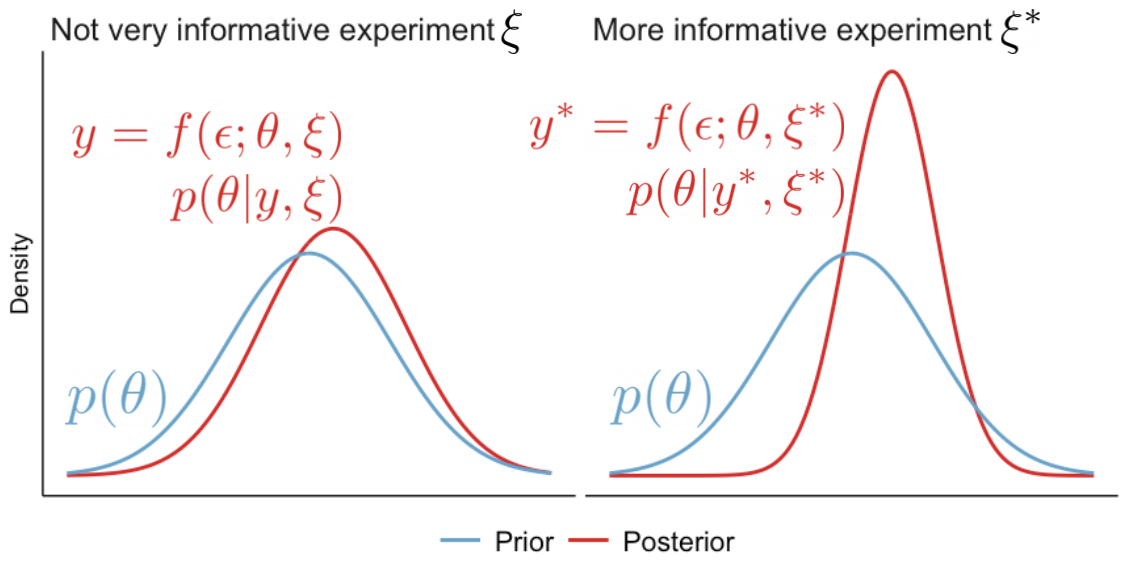
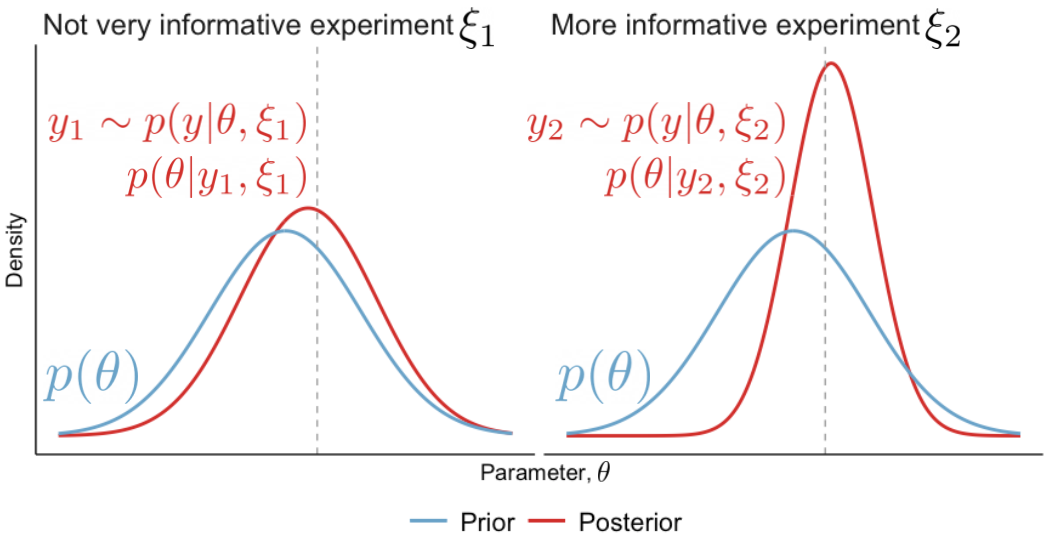
add boed-intro

diff --git a/content/post/boed-intro/index.md b/content/post/boed-intro/index.md
@@ -39,10 +39,79 @@ categories:
 - ML
 ---
 
-# Coming Soon :-)
+<!-- # Coming Soon :-) -->
+
+What questions should we ask in an online survey? Which point should we query next in an active learning loop? Where should we place sensors, e.g. to detect faults and defects most efficiently? These, and many more, seemingly distinct questions constitute the same fundamental problem---designing experiments to collect data that will help us learn about an underlying process. Bayesian Optimal Experimental Design (BOED) is a powerful yet elegant mathematical framework for tackling such problems. This introductory post describes the BOED framework and highlights some of the computational challenges of deploying it in applications. For an extensive review, see Ryan et al. (2016).
+
+In the BOED framework, the relationship between the parameters $\theta$ of the underlying process, the controllable designs $\xi$, and the outcomes $y$ are described using a likelihood function (or simulator) $p(y|\xi, \theta)$. Our initial knowledge or beliefs about the parameters $\theta$ are encapsulated in a prior $p(\theta)$.
+
+We assume $p(\theta)$ and $p(y|\theta, \xi)$ as given, so our task is to choose experiments $\xi$ that enable us to learn about $\theta$ *as efficiently as possible*. One possible measure of efficiency is the Expected Information Gain (EIG), proposed by Lindley (1956). Indeed, the guiding principle in BOED is that of information maximisation, and EIG is the central quantity of interest, so we introduce it below in detail.
+
+## Information Gain and Expected Information Gain (EIG)
+
+To build some intuition, let's begin with the illustrative example in Figure 1. Suppose we perform an experiment $\xi_1$ and obtain an outcome $y_1$. We compute the resulting posterior $p(\theta| \xi_1, y_1) \propto p(\theta) p(y|\theta, \xi)$ and notice that it is not very different from the prior; in particular, our uncertainty about $\theta$ is almost as large as before conducting the experiment (Figure 1, Left). Performing the experiment $\xi_2$, on the other hand, gives a posterior that is much more peaked, suggesting that $\xi_2$ is the more useful, more informative experiment of the two (Figure 1, Right).
+{{< figure library="true" src="information_gain.png" title="Amount of information contained in an experiment is quantified as the reduction in entropy from the prior to the posterior distribution of the parameter $\theta$. The grey dashed line indicates the true value of $\theta$." numbered="true">}}
+
+Formally, we quantify the information gain (IG) of an experiment as the reduction in Shannon entropy from the prior to the posterior
+$$
+\text{IG}(\xi, y) = H\big[ p(\theta) \big] - H \big[ p(\theta | y, \xi) \big].
+$$
+Using this metric, we can now compare and rank design-outcome pairs; for example, we can say the pair $(\xi_2, y_2)$ is more informative about $\theta$ than $(\xi_1, y_1)$. However, we can't use IG to find the optimal design as it depends on the outcome $y$ and hence can't calculate it until after the experiment has been performed. An easy way to fix that is to take the expectation with respect to all possible outcomes $y$ for an experiment $\xi$, which defines the expected information gain
+$$
+\text{EIG}(\xi) = \mathbb{E}_{p(y|\xi)}[\text{IG}(\xi, y)],
+$$
+where $p(y|\xi) = \mathbb{E}\_{p(\theta)} \big[ p(y|\theta, \xi) \big]$ is the marginal distribution of $y$. The optimal design is then $\xi^* = \arg\max\_\xi \text{EIG}(\xi)$
+
+<!-- ### Intractabilities
+ The posterior $p(\theta | y, \xi)$ is typically unknown in cl -->
+Unfortunately, optimising the EIG is an extremely challenging task. In fact, even computing $\text{EIG}(\xi)$ for a fixed $\xi$ is very computationally costly, as both the posterior $p(\theta | y, \xi)$ and the marginal $p(y|\xi)$ are in general intractable (i.e. not known in closed form). How to deal with these intractabilities will be the topic of another post. For now, we assume that there are computational methods that allow us to estimate and optimise the EIG efficiently.
+
+<!-- ## EIG and Mutual Information -->
 
 
+## Multiple experiments
+More often than not, we wish to perform multiple experiments $\xi_1, \xi_2, \dots, \xi_T$. Broadly speaking, there are two ways to approach the problem of designing multiple experiments: **static** (aka batch or open-loop) and **sequential** (aka adaptive or closed-loop).
 
-<!-- ## Information gain
+{{< figure library="true" src="static_sequential.png" title="Design strategies for multiple experiments." numbered="true">}}
 
-{{< figure library="true" src="information_gain.png" title="Amount of information contained in an experiment is quantified as the reduction in entropy from the prior to the posterior distribution of the parameter $\theta$." numbered="true">}} -->
+
+### Static experimentation
+
+Instead optimising $\text{EIG}(\xi)$ with respect to a single design $\xi$, we can set $\underline{\xi} := (\xi_1, \xi_2, \dots, \xi_T)$  and optimise $\text{EIG}(\underline{\xi})$ to give us an optimal *batch* of designs. Static design strategies are useful when experiments need to be performed in parallel, which can be suitable, for example, in applications where it takes a long time to obtain the outcomes after the experiment has been performed. As a result, the outcome of any experiment cannot affect the design of the other experiments.
+
+### Sequential experimentation
+
+In practice, we are often more interested in performing multiple experiments in a sequence $\xi_1, \xi_2, \dots, \xi_T$, and allowing the choice of each design $\xi\_{t+1}$ to be guided by the data from past experiments, which we call the *history* and denote by $h_t:= (\xi_1, y_1, \dots, \xi_t, y_t)$.
+
+#### Myopic design (one-step lookahead)
+The traditional approach to designing adaptive experiments is to fit a posterior $p(\theta| h_t)$ and use that as a prior in the EIG optimisation, which would give the next design $\xi\_{t+1}$. This is known as greedy or myopic design strategy: at each step of the experiment, we are optimising for the next best choice of $\xi$, without taking into account that there are $T-1$ future experiments to be performed. Despite being suboptimal, the sequential myopic strategy can bring huge improvements over static designs.
+
+{{< figure library="true" src="myopic.png" title="The myopic (aka greedy) strategy performs posterior inference at each step of the experiment and optimises one-step lookahead EIG using the fitted posterior as the prior." numbered="true">}}
+
+
+Unfortunately,  the computational cost required to run the myopic strategy severely limits its applicability. At each stage $t+1$ of the experiment, we need to perform compute (or rather approximate) the posterior $p(\theta|h_t)$, which is expensive and cannot be done in advance as it depends on $y\_{1:t}$. Furthermore, to obtain $\xi\_{t+1}$, we need to maximise the EIG, which is computationally even more challenging. Both of these steps need to be performed during the live experiment. Unless we are dealing with unusually simple models, it will be infeasible to run the myopic (or non-myopic $K$-step lookahead) strategy in real-time experiments.
+
+
+#### Amortized sequential BOED
+Until recently, to perform BOED in real-time applications, one had to forego adaptivity and use static strategies instead. (Or alternatively, forego being Bayesian optimal and use an adaptive heuristic).
+
+Deep Adaptive Design (DAD, Foster et al. 2021) is a method developed by our group at Oxford that has opened the door to running adaptive BOED in real-time. At the heart of the DAD approach is a *design policy network*, which is trained prior to the live experiment. The network takes a history $h_t$ as an input and outputs the design $\xi\_{t+1}$ to be used for the next experiment. Design decisions are thus made in milliseconds, using a single forward pass through the network.
+
+{{< figure library="true" src="policy_based.png" title="Policy-based BOED approaches, such as DAD, allow us to learn a function (policy) before the live experiment, thus enabling quick and adaptive experiments to be run at deployment." numbered="true">}}
+
+
+The key methodological difference, which marks a critical change from previous BOED approaches, is that DAD learns a *policy*, instead of learning designs. Put differently, previous methods optimise individual designs, while DAD optimises the parameters of a neural network, which is trained to propose optimal designs. DAD is thus the first policy-based approach to BOED.
+
+To be able to train the design network, we addressed some major technical challenges, including formulating a unified training objective that doesn't require calculating intermediate posteriors and EIGs, introducing a tractable surrogate for that objective and suggesting an appropriate architecture for the design network.
+
+I'll probably write another blog post to talk about our work on policy-based BOED at greater length. In the meantime, if you're interested in learning more about DAD, you can watch our [ICML talk](https://slideslive.com/38958620/deep-adaptive-design-amortizing-sequential-bayesian-experimental-design?ref=search) or have a look at the [full paper](https://arxiv.org/abs/2103.02438).
+
+## References
+
+<!-- Chaloner K. and I. Verdinelli, "Bayesian experimental design: A review", Statistical Science, pages 273–304, 1995. -->
+
+Foster A., D. R. Ivanova, I. Malik, and T. Rainforth, "Deep adaptive design: Amortizing sequential Bayesian experimental design", International Conference on Machine Learning (ICML), 2021.
+
+Lindley D. V., "On a measure of the information provided by an experiment", The Annals of Mathematical Statistics, pages 986–1005, 1956.
+
+Ryan E. G., C. C. Drovandi, J. M. McGree, and A. N. Pettitt, "A review of modern computational algorithms for Bayesian optimal design", International Statistical Review, 2016.
